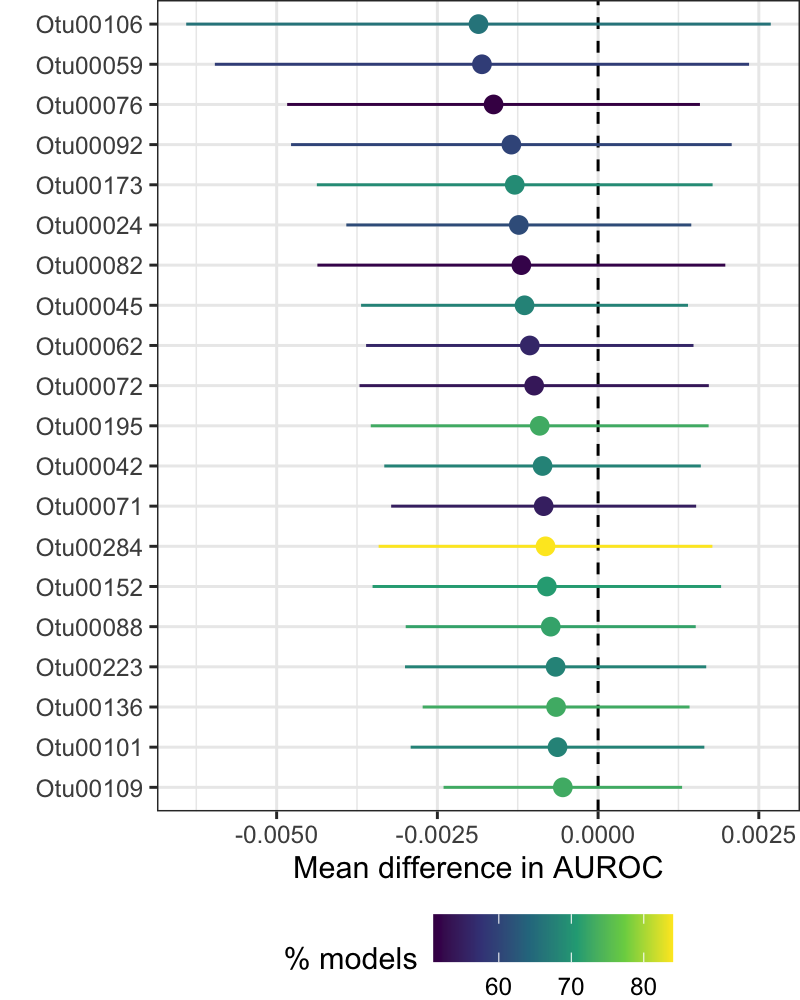
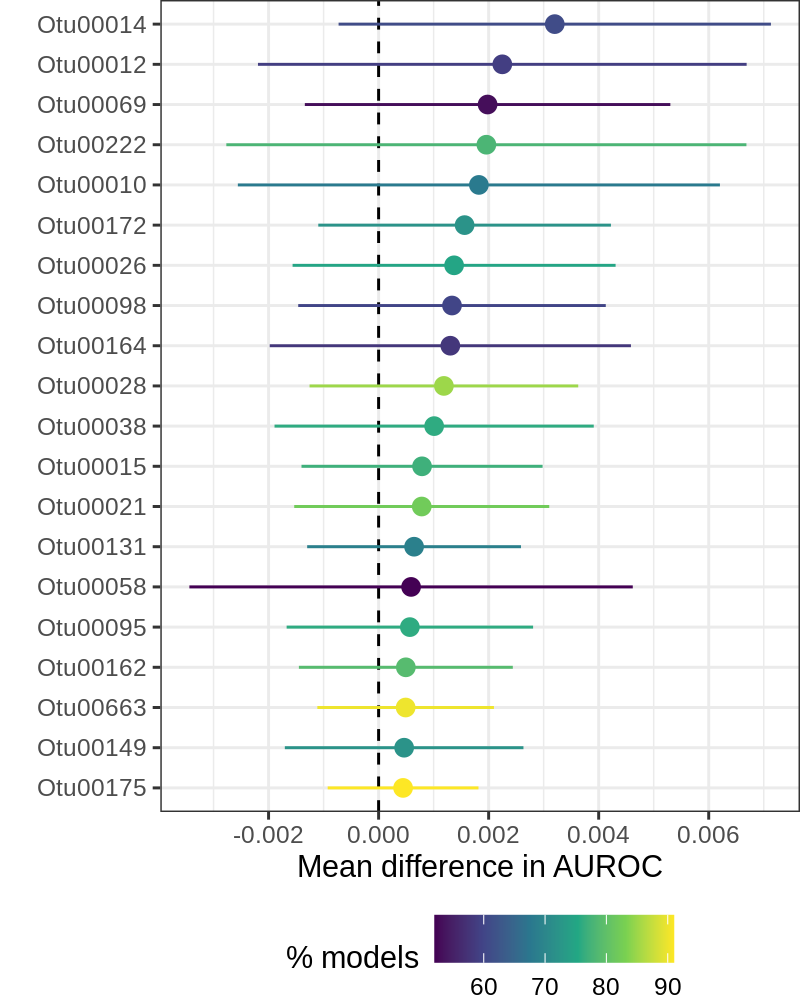
Update feature importance plot w/ most important OTUs first

diff --git a/report.md b/report.md
@@ -1,6 +1,6 @@
 Exploratory Report
 ================
-2022-02-05
+2022-02-06
 
 Machine learning algorithms used include: rf. Models were trained with
 100 different random partitions of the data into training and testing
